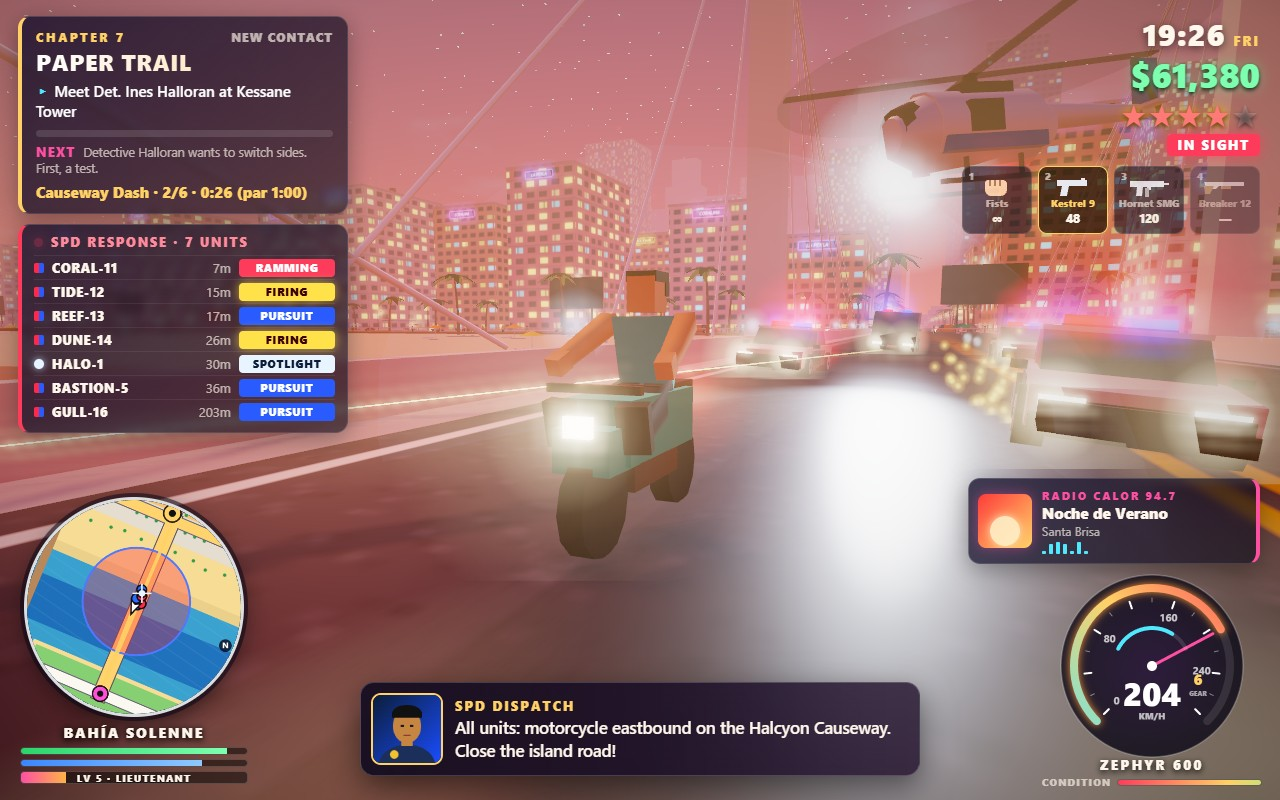
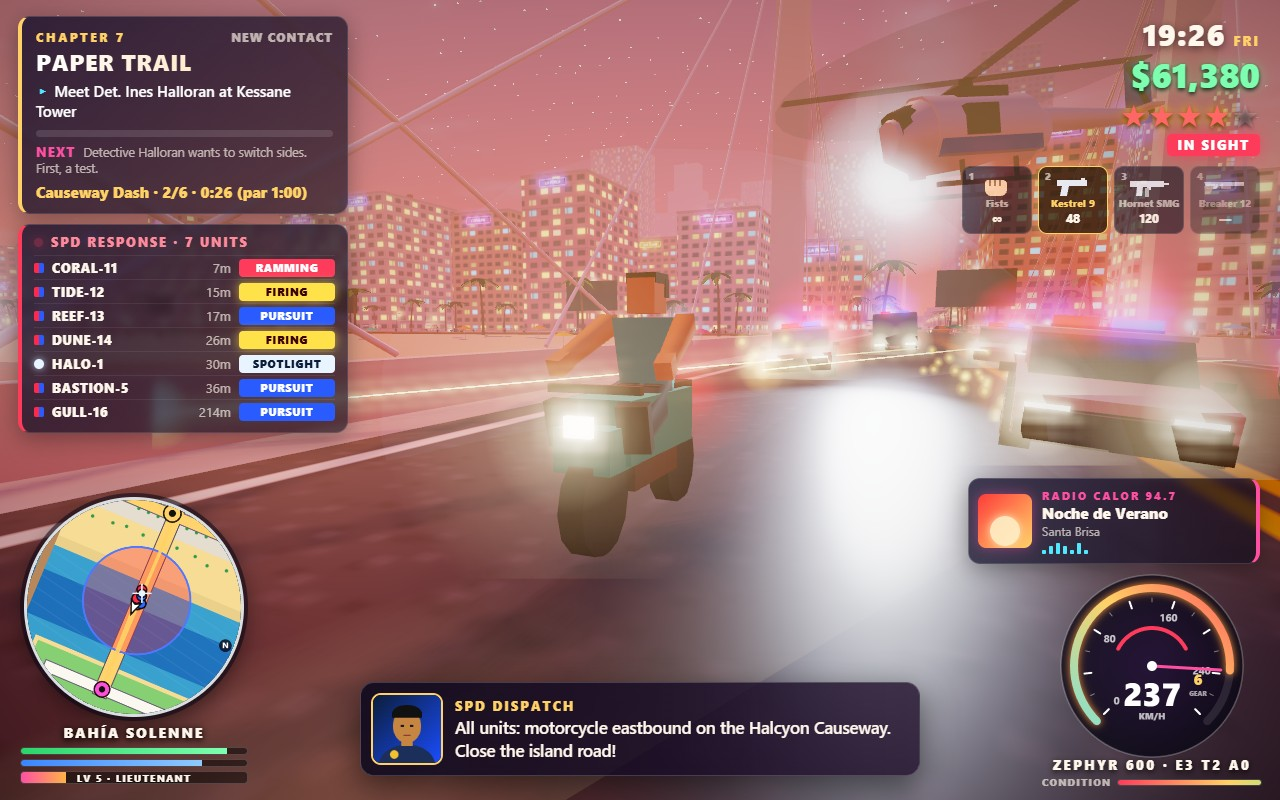
Garage upgrades: engine, tyre and armour stages at Chromatica Customs
- VehicleTuning (new): three stages of engine, tyres and armour plating per car, read by
  vehicle physics (top speed, acceleration, grip) and by crash and gunfire damage
- Customs menu sells the next stage of each part; the HUD shows the fit (E2 T1 A2)
- Staged shots carry tuned cars; a 'customs' playtest scene opens the upgrade menu

diff --git a/game/src/vehicles/vehiclePhysics.js b/game/src/vehicles/vehiclePhysics.js
@@ -4,6 +4,7 @@
 // a bicycle model with speed-sensitive steering. Buildings push the car out and dent it.
 import { clamp, damp, wrapAngle } from '../core/mathUtils.js';
 import { surfaceAt, groundHeight } from '../world/cityLayout.js';
+import { topSpeedFactor, accelFactor, gripFactor, damageFactor } from './vehicleTuning.js';
 
 export class VehicleBody {
   constructor(def, x, z, heading) {
@@ -50,16 +51,17 @@ export function stepVehicle(body, input, dt, collision) {
   let vR = body.vx * -cos + body.vz * sin;
   const throttle = body.health > 0 ? input.throttle : 0;
   const onSand = surfaceAt(body.x, body.z) === 'sand';
-  const top = def.maxSpeed * (onSand ? 0.55 : 1) * (body.health < def.health * 0.25 ? 0.7 : 1);
+  const top = def.maxSpeed * topSpeedFactor(body) * (onSand ? 0.55 : 1) * (body.health < def.health * 0.25 ? 0.7 : 1);
+  const accel = def.accel * accelFactor(body);
 
   body.braking = false;
   body.reversing = false;
   if (throttle > 0) {
     if (vF < -0.5) { vF += def.brake * throttle * dt; body.braking = true; }
-    else if (vF < top) vF += def.accel * throttle * dt * (1 - 0.65 * (vF / top) ** 2);
+    else if (vF < top) vF += accel * throttle * dt * (1 - 0.65 * (vF / top) ** 2);
   } else if (throttle < 0) {
     if (vF > 0.5) { vF -= def.brake * -throttle * dt; body.braking = true; }
-    else if (vF > -top * 0.3) { vF += def.accel * 0.55 * throttle * dt; body.reversing = true; }
+    else if (vF > -top * 0.3) { vF += accel * 0.55 * throttle * dt; body.reversing = true; }
   }
   // rolling resistance and aero drag
   const drag = (throttle === 0 ? 1.4 : 0.3) + Math.abs(vF) * 0.006;
@@ -67,7 +69,7 @@ export function stepVehicle(body, input, dt, collision) {
   if (input.handbrake) vF -= Math.sign(vF) * Math.min(Math.abs(vF), 7 * dt);
 
   // tyre grip on the sideways component
-  const grip = def.grip * (input.handbrake ? 0.13 : 1) * (onSand ? 0.6 : 1);
+  const grip = def.grip * gripFactor(body) * (input.handbrake ? 0.13 : 1) * (onSand ? 0.6 : 1);
   vR *= Math.exp(-grip * dt);
   body.slip = Math.abs(vR);
 
@@ -139,7 +141,7 @@ function bounce(body, nx, nz, restitution) {
   body.yawRate *= 0.5;
   const speed = -vn;
   if (speed > 6) {
-    if (!body.invulnerable) body.health = Math.max(0, body.health - (speed - 6) * 2.2 / body.def.mass);
+    if (!body.invulnerable) body.health = Math.max(0, body.health - ((speed - 6) * 2.2 / body.def.mass) * damageFactor(body));
     body.lastImpact = speed;
   }
   return speed > 3 ? { speed } : null;
@@ -164,8 +166,8 @@ export function collideVehicles(a, b) {
   b.vx += (j / mb) * nx; b.vz += (j / mb) * nz;
   const speed = -rel;
   if (speed > 5) {
-    if (!a.invulnerable) a.health = Math.max(0, a.health - speed * 1.2 / ma);
-    if (!b.invulnerable) b.health = Math.max(0, b.health - speed * 1.2 / mb);
+    if (!a.invulnerable) a.health = Math.max(0, a.health - (speed * 1.2 / ma) * damageFactor(a));
+    if (!b.invulnerable) b.health = Math.max(0, b.health - (speed * 1.2 / mb) * damageFactor(b));
   }
   return speed;
 }

diff --git a/game/src/ui/shopMenu.js b/game/src/ui/shopMenu.js
@@ -1,8 +1,9 @@
 // Shops and services at their doors: Brass & Barrel Arms (weapons, ammo, body armour),
-// Chromatica Customs (repair, respray, which also shakes off a wanted level the police have
-// not seen), and the Casa Aurora safehouse (sleep to heal and pass time, save the game).
+// Chromatica Customs (repair, engine / tyre / armour stages, respray, which also shakes off a
+// wanted level the police have not seen), and the Casa Aurora safehouse (sleep to heal and pass time, save the game).
 import { WEAPONS } from '../combat/weaponCatalog.js';
 import { PLACES } from '../world/cityLayout.js';
+import { TUNING, tuneOf } from '../vehicles/vehicleTuning.js';
 
 const $ = (id) => document.getElementById(id);
 const PAINTS = [[0xff3b3b, 'Solenne Red'], [0x13c4ff, 'Bay Blue'], [0xffd23f, 'Sundrop Yellow'], [0xf6f6f6, 'Pearl White'], [0x8a2be2, 'Lumen Violet'], [0x111111, 'Midnight Black'], [0x2ec4b6, 'Lagoon Teal'], [0xff7ad9, 'Flamingo Pink']];
@@ -71,6 +72,17 @@ export class ShopMenu {
       $('shop-sub').textContent = v ? `${v.def.name} · condition ${Math.round((v.body.health / v.def.health) * 100)}%` : 'Bring a vehicle into the bay.';
       if (v) {
         items.push({ label: 'Repair bodywork and engine', note: '$250', buy: () => { if (this.pay(250)) v.body.health = v.def.health; } });
+        const tune = tuneOf(v.body);
+        for (const [part, spec] of Object.entries(TUNING)) {
+          const next = tune[part] + 1;
+          if (next >= spec.stages.length) { items.push({ label: `${spec.name}: ${spec.stages[tune[part]]}`, note: 'maxed', buy: () => {} }); continue; }
+          items.push({ label: `${spec.name}: ${spec.stages[tune[part]]} → ${spec.stages[next]}`, note: `$${spec.prices[next].toLocaleString('en-US')}`, buy: () => {
+            if (!this.pay(spec.prices[next])) return;
+            tune[part] = next;
+            g.state.respect += 10;
+            g.hud.toast(`${spec.name} upgraded: ${spec.stages[next]}`);
+          } });
+        }
         for (const [color, name] of PAINTS) {
           items.push({ label: `Respray: ${name}`, note: '$150', swatch: color, buy: () => {
             if (!this.pay(150)) return;

diff --git a/game/src/shots/screenshotDirector.js b/game/src/shots/screenshotDirector.js
@@ -11,6 +11,8 @@
 import * as THREE from 'three';
 import { wrapAngle, clamp } from '../core/mathUtils.js';
 import { RACES } from '../missions/sideActivities.js';
+import { tuneOf } from '../vehicles/vehicleTuning.js';
+import { PLACES } from '../world/cityLayout.js';
 
 const STEP = 1 / 60;
 
@@ -72,6 +74,7 @@ const SCENES = {
     game.teleportPlayer(300, -295, Math.PI / 2);
     const v = game.vehicles.spawn('vireo', 300, -295, Math.PI / 2, { role: 'mission', paint: 0xff2d55 });
     v.body.invulnerable = true;
+    Object.assign(tuneOf(v.body), { engine: 2, tyres: 1, armour: 2 });
     game.player.enterVehicle(v, false);
     v.body.setVelocityForward(37);
     game.state.storyIndex = 5;
@@ -252,6 +255,7 @@ const SCENES = {
     for (const v of game.vehicles.list.slice()) if (Math.abs(v.body.z + 300) < 14 && v.body.x > 540 && v.body.x < 900) game.vehicles.remove(v);
     const bike = game.vehicles.spawn('bike', 600, -295, Math.PI / 2, { role: 'mission', paint: 0x00f5d4 });
     bike.body.invulnerable = true;
+    Object.assign(tuneOf(bike.body), { engine: 3, tyres: 2, armour: 0 });
     game.player.enterVehicle(bike, false);
     bike.body.setVelocityForward(42);
     game.state.storyIndex = 6;
@@ -317,6 +321,20 @@ const SCENES = {
     game.cameraRig.pitch = 0.25;
     simulate(game, 0.3, 0.3);
     finalFrames(game, 1);
+  },
+
+  /** In the Chromatica Customs bay with the upgrade menu open (a playtest view of the shop). */
+  async customs(game) {
+    setup(game, 18.2);
+    const [x, z] = PLACES.customs.door;
+    game.teleportPlayer(x, z - 6, 0);
+    const car = game.vehicles.spawn('vireo', x, z - 6, Math.PI / 2, { role: 'mission', paint: 0x13c4ff });
+    game.player.enterVehicle(car, false);
+    Object.assign(tuneOf(car.body), { engine: 1, tyres: 1, armour: 0 });
+    game.state.money = 23400;
+    simulate(game, 0.5);
+    finalFrames(game, 1);
+    game.shop.show('customs');
   },
 
   async title(game) {

diff --git a/game/src/vehicles/vehicleTuning.js b/game/src/vehicles/vehicleTuning.js
@@ -1,0 +1,33 @@
+// Performance parts fitted at Chromatica Customs. Each car carries its own stages (0-3) of
+// engine, tyres and armour plating; vehicle physics and damage read the multipliers here.
+// Parts stay on the car, so a tuned getaway car is worth parking in the safehouse garage.
+
+export const TUNING = {
+  engine: { name: 'Engine', stages: ['Stock', 'Street', 'Sport', 'Race'], prices: [0, 1800, 4200, 9000] },
+  tyres: { name: 'Tyres', stages: ['Stock', 'Grip+', 'Semi-slick', 'Slick'], prices: [0, 900, 2200, 4800] },
+  armour: { name: 'Armour plating', stages: ['None', 'Light', 'Heavy', 'Bastion'], prices: [0, 1500, 3600, 7500] },
+};
+
+/** The stages fitted to a vehicle body (created on first use). */
+export function tuneOf(body) {
+  return (body.tune ||= { engine: 0, tyres: 0, armour: 0 });
+}
+
+/** Top speed multiplier: +6% a stage. */
+export function topSpeedFactor(body) { return 1 + 0.06 * (body.tune?.engine ?? 0); }
+
+/** Acceleration multiplier: +14% a stage. */
+export function accelFactor(body) { return 1 + 0.14 * (body.tune?.engine ?? 0); }
+
+/** Lateral grip multiplier: +9% a stage. */
+export function gripFactor(body) { return 1 + 0.09 * (body.tune?.tyres ?? 0); }
+
+/** Damage taken multiplier: each armour stage cuts it by a further quarter. */
+export function damageFactor(body) { return 1 / (1 + 0.33 * (body.tune?.armour ?? 0)); }
+
+/** A short "E2 T1 A3"-style tag for the HUD, or '' for a stock car. */
+export function tuneTag(body) {
+  const t = body.tune;
+  if (!t || !(t.engine || t.tyres || t.armour)) return '';
+  return `E${t.engine} T${t.tyres} A${t.armour}`;
+}

diff --git a/game/src/combat/combatSystem.js b/game/src/combat/combatSystem.js
@@ -3,6 +3,7 @@
 // announced as a 'gunshot' event, which scatters pedestrians and tells the police.
 import * as THREE from 'three';
 import { WEAPONS } from './weaponCatalog.js';
+import { damageFactor } from '../vehicles/vehicleTuning.js';
 
 export class CombatSystem {
   constructor(game) {
@@ -83,7 +84,7 @@ export class CombatSystem {
       hitTarget.takeHit(w.damage, shot.shooter, { x: dx, z: dz });
     } else if (hitVehicle) {
       g.particles.sparks(hx, hy, hz, 5);
-      if (!hitVehicle.body.invulnerable) hitVehicle.body.health -= w.damage * 0.35;
+      if (!hitVehicle.body.invulnerable) hitVehicle.body.health -= w.damage * 0.35 * damageFactor(hitVehicle.body);
       if (hitVehicle.role === 'player' && hitPlayer) g.player.damage(w.damage * 0.15, 'gunfire');
       g.events.emit('vehicleShot', { vehicle: hitVehicle, shooter: shot.shooter });
     } else if (best < range * 0.999) {

diff --git a/game/src/ui/hudOverlay.js b/game/src/ui/hudOverlay.js
@@ -6,6 +6,7 @@ import { WEAPONS, WEAPON_ORDER } from '../combat/weaponCatalog.js';
 import { rankFor } from '../core/gameState.js';
 import { districtAt } from '../world/cityLayout.js';
 import { WantedBanner } from './wantedBanner.js';
+import { tuneTag } from '../vehicles/vehicleTuning.js';
 
 const $ = (id) => document.getElementById(id);
 const DAYS = ['MON', 'TUE', 'WED', 'THU', 'FRI', 'SAT', 'SUN'];
@@ -138,7 +139,8 @@ export class HudOverlay {
     const v = g.player.vehicle;
     $('speedo').classList.toggle('hidden', !v);
     if (v) {
-      $('vehicle-name').textContent = v.def.short;
+      const tag = tuneTag(v.body);
+      $('vehicle-name').textContent = tag ? `${v.def.short} · ${tag}` : v.def.short;
       $('condition-fill').style.width = `${Math.max(0, (v.body.health / v.def.health) * 100)}%`;
     }
     // radio card
